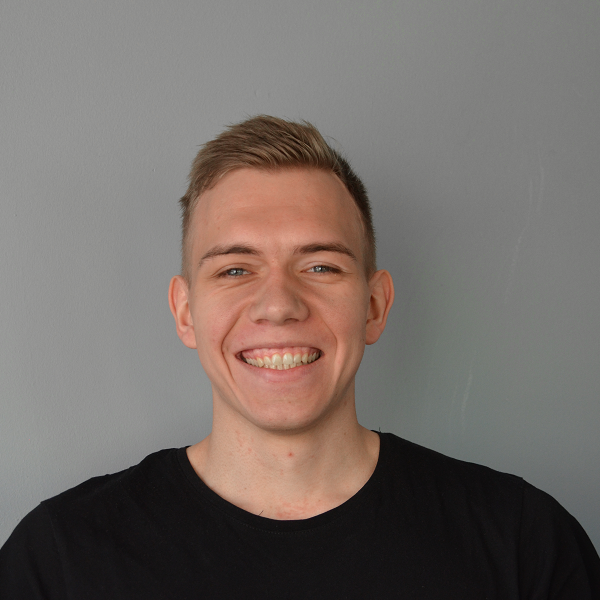
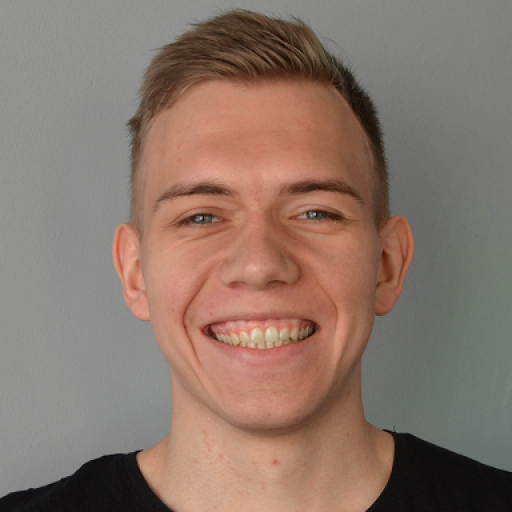
Change position of section to center of view Add author image on click

diff --git a/Frontend/src/pages/Main/Experience/Experience.tsx b/Frontend/src/pages/Main/Experience/Experience.tsx
@@ -6,39 +6,41 @@ const Experience = () => {
   return (
     <ScrollSection id="experience">
       <h2>Battle-tested Experience</h2>
-      <div className="experience__container">
-        <div className="experience__item">
-          <h3 className="experience__title">Junior Frontend Developer</h3>
-          <p className="experience__subtitle">
-            Meetmedia Sp. z o.o. (XII 2019 - VIII 2020)
-          </p>
-          <div className="experience__stack">
-            <p className="experience__text">Tech stack:</p>
-            <p className="experience__text">
-              JavaScript, JQuery, CSS, Sass, HTML, PHP
+      <div className="experience">
+        <div className="experience__container">
+          <div className="experience__item">
+            <h3 className="experience__title">Junior Frontend Developer</h3>
+            <p className="experience__subtitle">
+              Meetmedia Sp. z o.o. (XII 2019 - VIII 2020)
             </p>
+            <div className="experience__stack">
+              <p className="experience__text">Tech stack:</p>
+              <p className="experience__text">
+                JavaScript, JQuery, CSS, Sass, HTML, PHP
+              </p>
+            </div>
+            <p className="experience__text">Responsibilities:</p>
+            <ul className="experience__list">
+              <li className="experience__list-item">
+                Collaborating with clients and translating their design concepts
+                into responsive websites.
+              </li>
+              <li className="experience__list-item">
+                Taking an active role in client communication and effectively
+                managing a team of developers.
+              </li>
+              <li className="experience__list-item">
+                Identifying and resolving bugs based on client feedback,
+                ensuring a seamless user experience.
+              </li>
+              <li className="experience__list-item">
+                Successfully deploying projects into production environments.
+              </li>
+              <li className="experience__list-item">
+                I had the opportunity to code a new layout for bezuzyteczna.pl
+              </li>
+            </ul>
           </div>
-          <p className="experience__text">Responsibilities:</p>
-          <ul className="experience__list">
-            <li className="experience__list-item">
-              Collaborating with clients and translating their design concepts
-              into responsive websites.
-            </li>
-            <li className="experience__list-item">
-              Taking an active role in client communication and effectively
-              managing a team of developers.
-            </li>
-            <li className="experience__list-item">
-              Identifying and resolving bugs based on client feedback, ensuring
-              a seamless user experience.
-            </li>
-            <li className="experience__list-item">
-              Successfully deploying projects into production environments.
-            </li>
-            <li className="experience__list-item">
-              I had the opportunity to code a new layout for bezuzyteczna.pl
-            </li>
-          </ul>
         </div>
       </div>
       <Button>Go to projects</Button>

diff --git a/Frontend/src/pages/Main/OtherActivities/OtherActivities.tsx b/Frontend/src/pages/Main/OtherActivities/OtherActivities.tsx
@@ -5,16 +5,18 @@ const OtherActivities = () => {
   return (
     <ScrollSection id="others">
       <h2>Beyond the Code</h2>
-      <div className="other-activities__item">
-        <h3 className="other-activities__title">Developer's Journal</h3>
-        <p className="other-activities__text">#fromzerotosenior</p>
-        <p className="other-activities__text">Since I 2023</p>
-      </div>
-      <div className="other-activities__stroke"></div>
-      <div className="other-activities__item">
-        <h3 className="other-activities__title">Math tutor</h3>
-        <p className="other-activities__text">Level: High School</p>
-        <p className="other-activities__text">Since IX 2015</p>
+      <div className="other-activities">
+        <div className="other-activities__item">
+          <h3 className="other-activities__title">Developer's Journal</h3>
+          <p className="other-activities__text">#fromzerotosenior</p>
+          <p className="other-activities__text">Since I 2023</p>
+        </div>
+        <div className="other-activities__stroke"></div>
+        <div className="other-activities__item">
+          <h3 className="other-activities__title">Math tutor</h3>
+          <p className="other-activities__text">Level: High School</p>
+          <p className="other-activities__text">Since IX 2015</p>
+        </div>
       </div>
     </ScrollSection>
   );

diff --git a/Frontend/src/pages/Main/Skills/Skills.tsx b/Frontend/src/pages/Main/Skills/Skills.tsx
@@ -1,27 +1,34 @@
 import ScrollSection from "../ScrollSection/ScrollSection";
-import "./Skills.scss";
+import SkillsList from "./SkillsList";
+
+const ExampleSkillsList = [
+  {
+    src: "/icons/tech/html.png",
+    alt: "html Icon",
+  },
+  {
+    src: "/icons/tech/css.png",
+    alt: "Css Icon",
+  },
+  {
+    src: "/icons/tech/js.png",
+    alt: "js Icon",
+  },
+  {
+    src: "/icons/tech/sass.png",
+    alt: "sass Icon",
+  },
+  {
+    src: "/icons/tech/typescript.png",
+    alt: "typescript Icon",
+  },
+];
 
 const Skills = () => {
   return (
     <ScrollSection id="skills">
       <h2>Forceful Skills</h2>
-      <div className="skills__container">
-        <div className="skills__item">
-          <img src="/icons/tech/html.png" alt="html Icon" />
-        </div>
-        <div className="skills__item">
-          <img src="/icons/tech/css.png" alt="Css Icon" />
-        </div>
-        <div className="skills__item">
-          <img src="/icons/tech/js.png" alt="js Icon" />
-        </div>
-        <div className="skills__item">
-          <img src="/icons/tech/sass.png" alt="sass Icon" />
-        </div>
-        <div className="skills__item">
-          <img src="/icons/tech/sass.png" alt="sass Icon" />
-        </div>
-      </div>
+      <SkillsList elements={ExampleSkillsList} />
     </ScrollSection>
   );
 };

diff --git a/Frontend/src/pages/Main/About/About.tsx b/Frontend/src/pages/Main/About/About.tsx
@@ -1,3 +1,4 @@
+import AuthorImage from "./AuthorImage";
 import ScrollSection from "../ScrollSection/ScrollSection";
 import "./About.scss";
 
@@ -5,12 +6,12 @@ const About = () => {
   return (
     <ScrollSection id="about">
       <h2>Who am I?</h2>
-      <p className="about__text">
+      <p>
         Junior with ambitions to become a Senior. He has worked in various
         places, but has always been drawn to programming. Perfectionist 90% of
         the time. Loves to share his knowledge.
       </p>
-      <img className="about__image" src="/images/logo.png" alt="Logo" />
+      <AuthorImage />
     </ScrollSection>
   );
 };

diff --git a/Frontend/src/pages/Main/Skills/SkillsList.tsx b/Frontend/src/pages/Main/Skills/SkillsList.tsx
@@ -1,0 +1,22 @@
+import "./SkillsList.scss";
+
+type Props = {
+  elements: {
+    src: string;
+    alt: string;
+  }[];
+};
+
+const SkillsList = ({ elements }: Props) => {
+  return (
+    <div className="skillsList">
+      {elements.map((element) => (
+        <div key={element.alt} className="skillsList__item">
+          <img src={element.src} alt={element.alt} />
+        </div>
+      ))}
+    </div>
+  );
+};
+
+export default SkillsList;

diff --git a/Frontend/src/pages/Main/About/AuthorImage.tsx b/Frontend/src/pages/Main/About/AuthorImage.tsx
@@ -1,0 +1,19 @@
+import "./AuthorImage.scss";
+
+const AuthorImage = () => {
+  const handleToggleImage = () => {
+    const image = document.querySelector(".authorImage") as HTMLImageElement;
+    image.src = "/images/author.png";
+  };
+
+  return (
+    <img
+      onClick={handleToggleImage}
+      src="/images/logo.png"
+      alt="Logo"
+      className="authorImage"
+    />
+  );
+};
+
+export default AuthorImage;

diff --git a/Frontend/src/pages/Main/Welcome/Welcome.tsx b/Frontend/src/pages/Main/Welcome/Welcome.tsx
@@ -1,3 +1,4 @@
+import CenterBox from "../CenterBox/CenterBox";
 import Terminal from "../Terminal/Terminal";
 
 const elementsToWrite = [
@@ -7,7 +8,11 @@ const elementsToWrite = [
 ];
 
 const Welcome = () => {
-  return <Terminal elements={elementsToWrite} />;
+  return (
+    <CenterBox>
+      <Terminal elements={elementsToWrite} />
+    </CenterBox>
+  );
 };
 
 export default Welcome;

diff --git a/Frontend/src/pages/Main/ScrollSection/ScrollSection.scss b/Frontend/src/pages/Main/ScrollSection/ScrollSection.scss
@@ -4,4 +4,8 @@
   overflow-y: scroll;
   height: calc(100vh - $header-height);
   scroll-snap-align: start;
+  display: flex;
+  flex-direction: column;
+  justify-content: center;
+  align-items: center;
 }

diff --git a/Frontend/src/components/custom/Button/Button.scss b/Frontend/src/components/custom/Button/Button.scss
@@ -11,7 +11,4 @@
   font-weight: 500;
   font-family: $font-family;
   color: $color-secondary;
-  line-height: 125%;
-
-  height: 100%;
 }

diff --git a/Frontend/src/pages/Main/Experience/Experience.scss b/Frontend/src/pages/Main/Experience/Experience.scss
@@ -3,6 +3,7 @@
   display: flex;
   flex-direction: column;
   gap: 1rem;
+  text-align: left;
 
   & &__item {
     display: flex;

diff --git a/Frontend/src/pages/Main/Skills/SkillsList.scss b/Frontend/src/pages/Main/Skills/SkillsList.scss
@@ -1,0 +1,5 @@
+.skillsList {
+  display: grid;
+  grid-template-columns: repeat(4, 1fr);
+  grid-gap: 1rem;
+}

diff --git a/Frontend/src/pages/Main/About/AuthorImage.scss b/Frontend/src/pages/Main/About/AuthorImage.scss
@@ -1,0 +1,5 @@
+.authorImage {
+  width: 256px;
+  height: 256px;
+  border-radius: 50%;
+}
